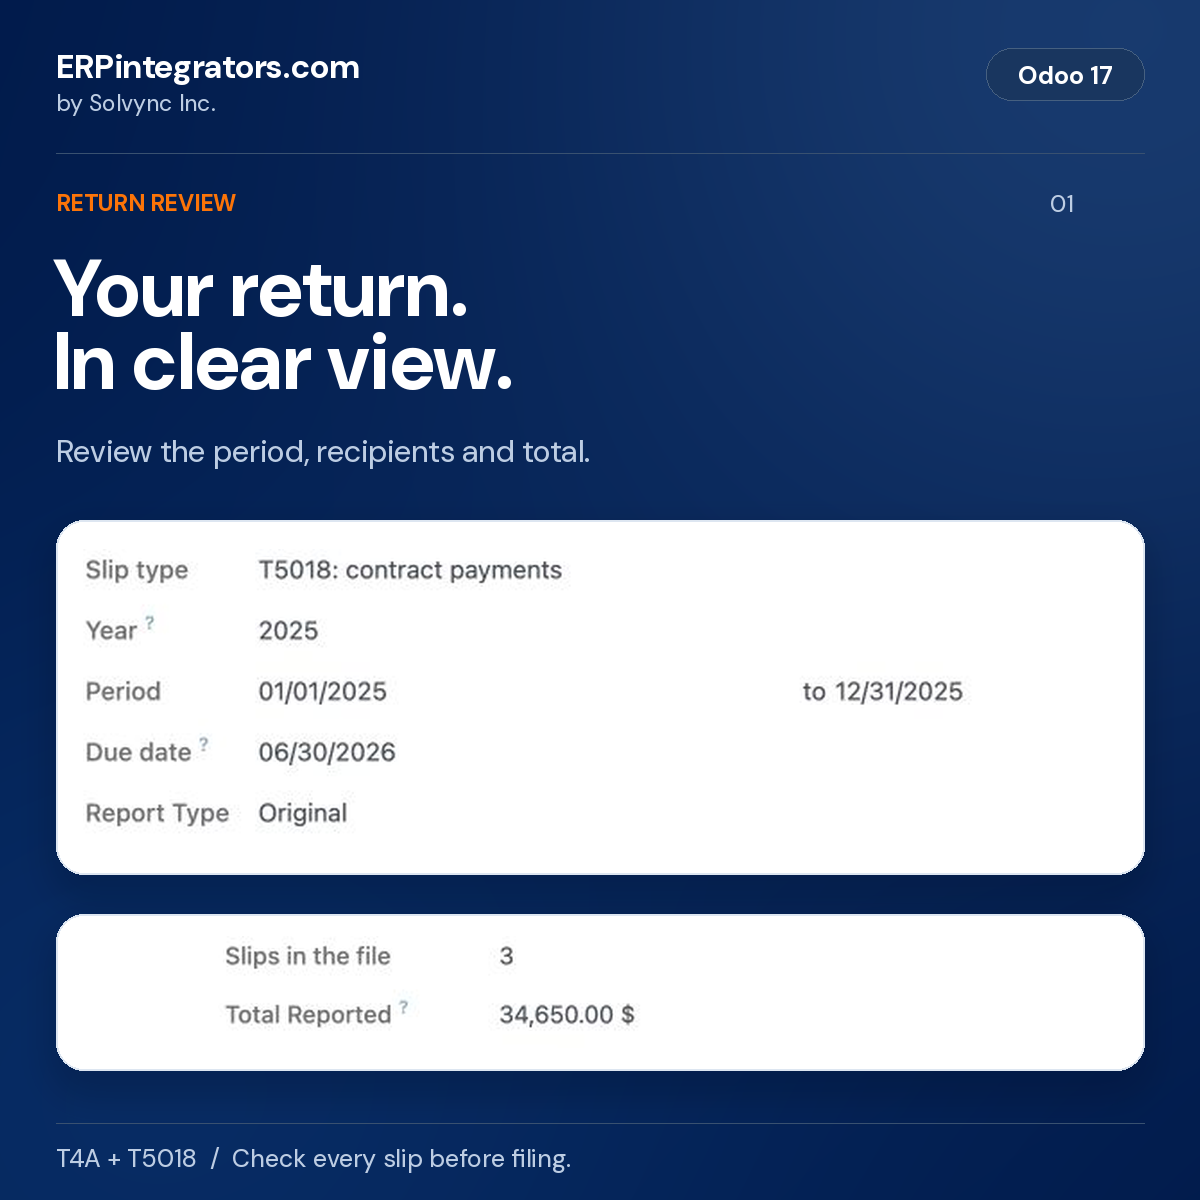
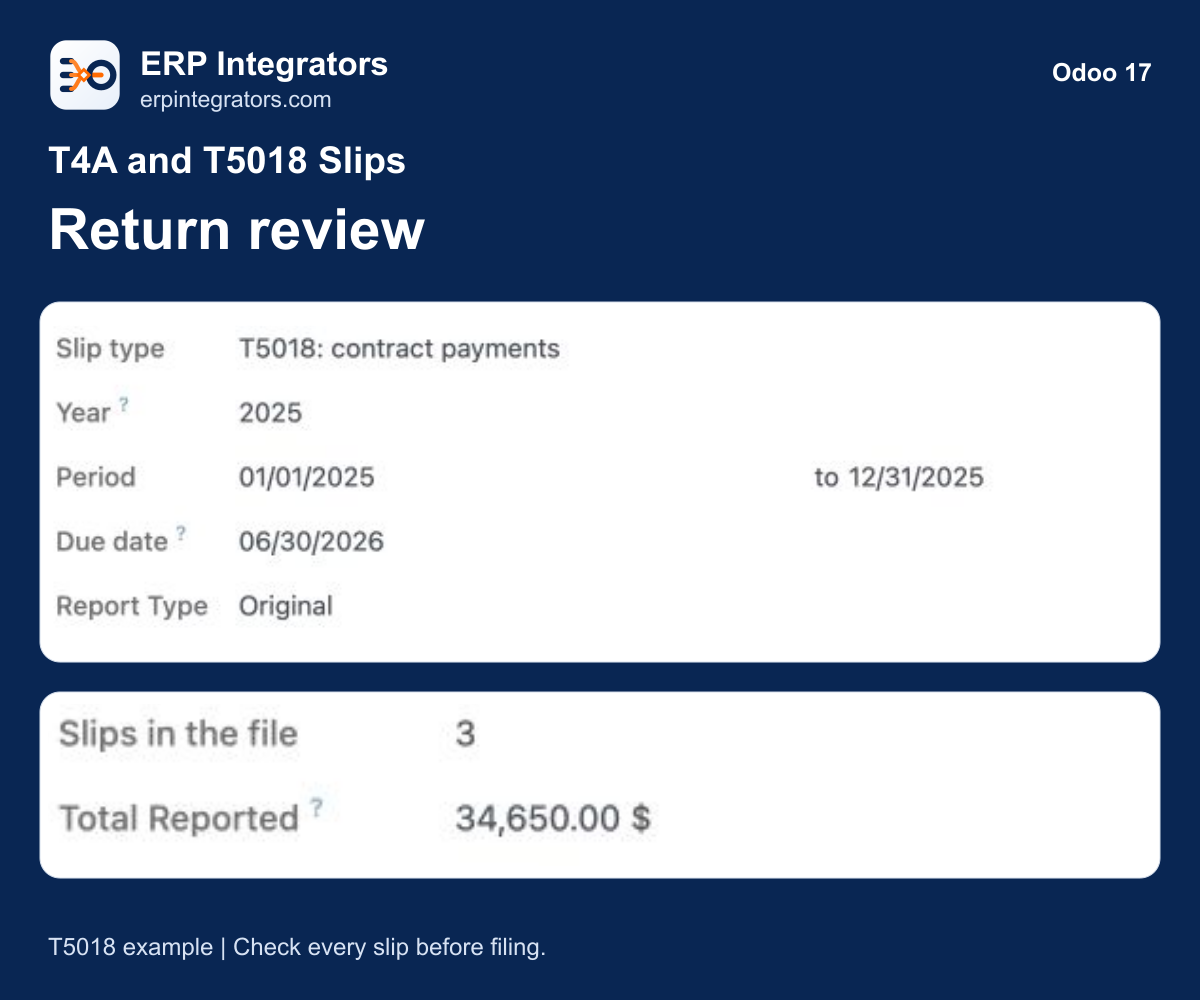
Refresh marketplace branding and release-specific screenshots

diff --git a/l10n_ca_contractor_slips/static/description/index.html b/l10n_ca_contractor_slips/static/description/index.html
@@ -1,17 +1,17 @@
 <div itemscope="" itemtype="https://schema.org/SoftwareApplication">
+<div class="d-flex align-items-center mb-4" style="color:#092653"><img src="logo.png" width="64" height="64" alt="ERP Integrators" class="mr-3"/><div><p class="mb-1" style="font-size:24px;font-weight:600">ERP Integrators</p><p class="mb-0">erpintegrators.com | Solvync Inc.</p></div></div>
 <h1 itemprop="name" id="t4a-and-t5018-slips">T4A and T5018 Slips</h1>
 <section class="mb-4">
 <h2>Release details</h2>
 <p>Version <span itemprop="softwareVersion">17.0.1.4</span>, stable release.</p>
 <p>Server operating system: <span itemprop="operatingSystem">Linux</span>.</p>
 <p itemprop="softwareRequirements">Requires Odoo 17 Community or Enterprise, on Odoo.sh or your own server. Odoo Online is not supported.</p>
-<p><span itemprop="offers" itemscope="" itemtype="https://schema.org/Offer">Module price: US$<span itemprop="price">199</span> <span itemprop="priceCurrency">USD</span>.</span> Hosting, Odoo subscriptions and separately agreed services are excluded.</p>
-<p>Published by ERPintegrators.com, by <span itemprop="publisher" itemscope="" itemtype="https://schema.org/Organization"><span itemprop="name">Solvync Inc.</span></span>. Check every slip against your records before filing.</p>
+<p>See the current Odoo Apps checkout price for this version. Hosting, Odoo subscriptions and separately agreed services are excluded.</p>
+<p>Published by ERP Integrators, a product brand of <span itemprop="publisher" itemscope="" itemtype="https://schema.org/Organization"><span itemprop="name">Solvync Inc.</span></span>. Check every slip against your records before filing.</p>
 </section>
 
 <p>License: LGPL-3</p>
-<p><strong>ERPintegrators.com</strong> | by <strong>Solvync
-Inc.</strong></p>
+
 <p>Prepare T4A box 048 and T5018 contractor tax slips in Odoo 17, using
 the vendor payments recorded in your accounting. Review each
 contractor's total, trace the bills and payments behind it, and create a
@@ -64,29 +64,26 @@ example uses the 2026 XML submission format. The accounting and filing
 limits below apply to both Community and Enterprise.</p>
 <div class="row">
 <div class="col-12 col-lg-6 mb-4">
-<img class="img-fluid" width="1200" height="1200" src="screenshots/01-reporting-period.png" alt="T5018 return in Odoo 17 showing the closed 2025 calendar period, three slips and CAD34,650 reported" />
+<img class="img-fluid" width="1200" height="1000" src="screenshots/01-reporting-period.png" alt="T5018 return in Odoo 17 showing the closed 2025 calendar period, three slips and CAD34,650 reported" />
 </div>
 <div class="col-12 col-lg-6 mb-4">
-<img class="img-fluid" width="1200" height="1200" src="screenshots/02-reported-amount.png" alt="T5018 example: Cedarline Framing Ltd., CAD24,000 before tax and CAD25,200 reported with tax" />
+<img class="img-fluid" width="1200" height="1000" src="screenshots/02-reported-amount.png" alt="T5018 example: Cedarline Framing Ltd., CAD24,000 before tax and CAD25,200 reported with tax" />
 </div>
 <div class="col-12 col-lg-6 mb-4">
-<img class="img-fluid" width="1200" height="1200" src="screenshots/03-payment-trace.png" alt="Two dated matched vendor bills supporting Cedarline Framing Ltd. T5018 payments" />
+<img class="img-fluid" width="1200" height="1000" src="screenshots/03-payment-trace.png" alt="Two dated matched vendor bills supporting Cedarline Framing Ltd. T5018 payments" />
 </div>
 <div class="col-12 col-lg-6 mb-4">
-<img class="img-fluid" width="1200" height="1200" src="screenshots/04-cra-xml.png" alt="Finalized T5018 return with Download CRA file, ready for review and separate upload to CRA" />
+<img class="img-fluid" width="1200" height="1000" src="screenshots/04-cra-xml.png" alt="Finalized T5018 return with Download CRA file, ready for review and separate upload to CRA" />
 </div>
 <div class="col-12 col-lg-6 mb-4">
-<img class="img-fluid" width="1200" height="1200" src="screenshots/05-recipient-portal.png" alt="Recipient portal showing the contractor's own 2025 T5018 slip, CAD25,200 reported and a PDF download" />
+<img class="img-fluid" width="1200" height="1000" src="screenshots/05-recipient-portal.png" alt="Recipient portal showing the contractor's own 2025 T5018 slip, CAD25,200 reported and a PDF download" />
 </div>
 </div>
 
-<h3 id="watch-the-workflow-in-odoo-17">Watch the workflow in Odoo
-17</h3>
-<img class="img-fluid" width="720" height="450" src="t4a-t5018-odoo-17-walkthrough.gif" alt="Odoo 17 T5018 walkthrough: calculate three slips, inspect the amount and payment trace, finalize and download the CRA XML file" />
+<h3 id="t5018-review-in-odoo-17">T5018 return review in Odoo 17</h3>
+<img class="img-fluid" width="960" height="800" src="t4a-t5018-odoo-17-walkthrough.gif" alt="Odoo 17 T5018 sequence: return review, reported amounts, matched payments and saved CRA XML" />
 
-<p>This 16-second T5018 walkthrough shows how to calculate slips, review
-the contractor's amount and matched bills, finalize, then download the
-CRA file. Review the file and upload it to CRA separately using your own
+<p>This 16-second T5018 sequence shows recorded return review, reported amounts, matched payments and the saved CRA XML download. Review the file and upload it to CRA separately using your own
 authorized account. Downloading the XML does not file the return or
 establish CRA acceptance.</p>
 <h2 id="questions-about-t4a-and-t5018-in-odoo">Questions about T4A and
@@ -123,13 +120,7 @@ Odoo Online does not allow installation of this custom Python module.
 The accounting workflow uses Canadian localization and the setup
 described below.</p>
 <h3 id="what-does-the-module-cost">What does the module cost?</h3>
-<p>The Odoo Apps price is <strong>US$199</strong> for this Odoo version.
-The LGPL-3 license remains in place, and the source repository is
-public. Hosting and Odoo subscriptions are separate. Bug fixes and
-configuration advice follow the Odoo Apps support terms; installation,
-customization and other services are quoted separately. Check each slip
-against your records before filing. Your business remains responsible
-for the return and recipient delivery.</p>
+<p>See the current checkout price for this Odoo version. The LGPL-3 license remains in place, and the source repository is public. Hosting and Odoo subscriptions are separate. Bug fixes and configuration advice follow the Odoo Apps support terms; installation, customization and other services are quoted separately. Check each slip against your records before filing.</p>
 <h3 id="who-should-maintain-the-annual-filing-setup">Who should maintain
 the annual filing setup?</h3>
 <p>Assign an owner to check the current CRA schema, form requirements
